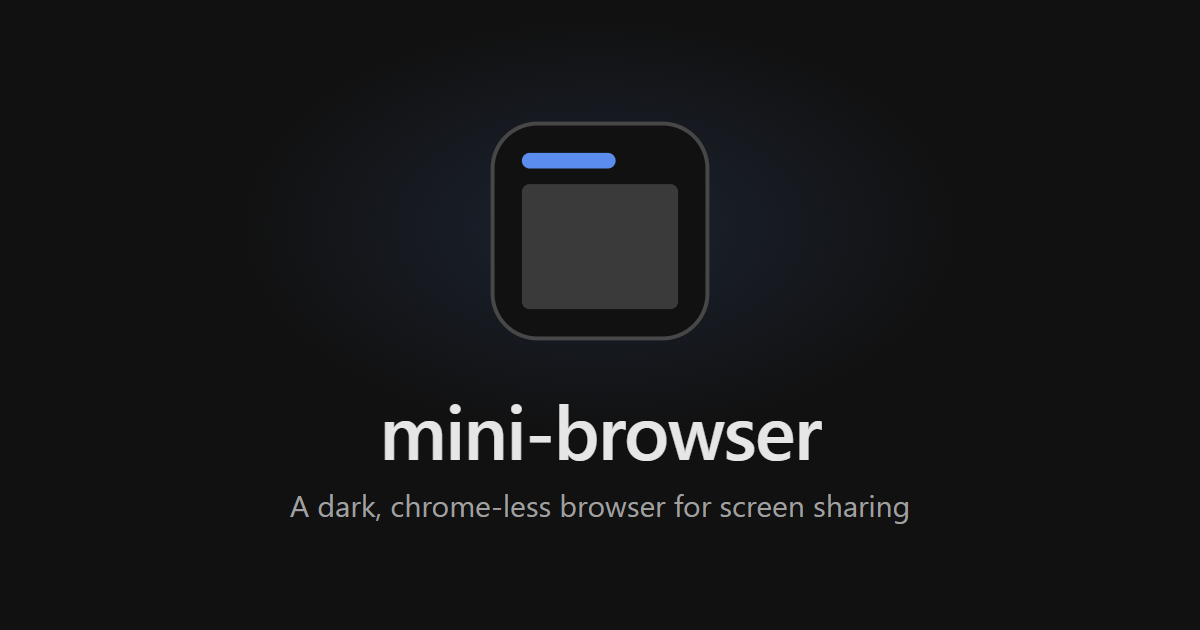
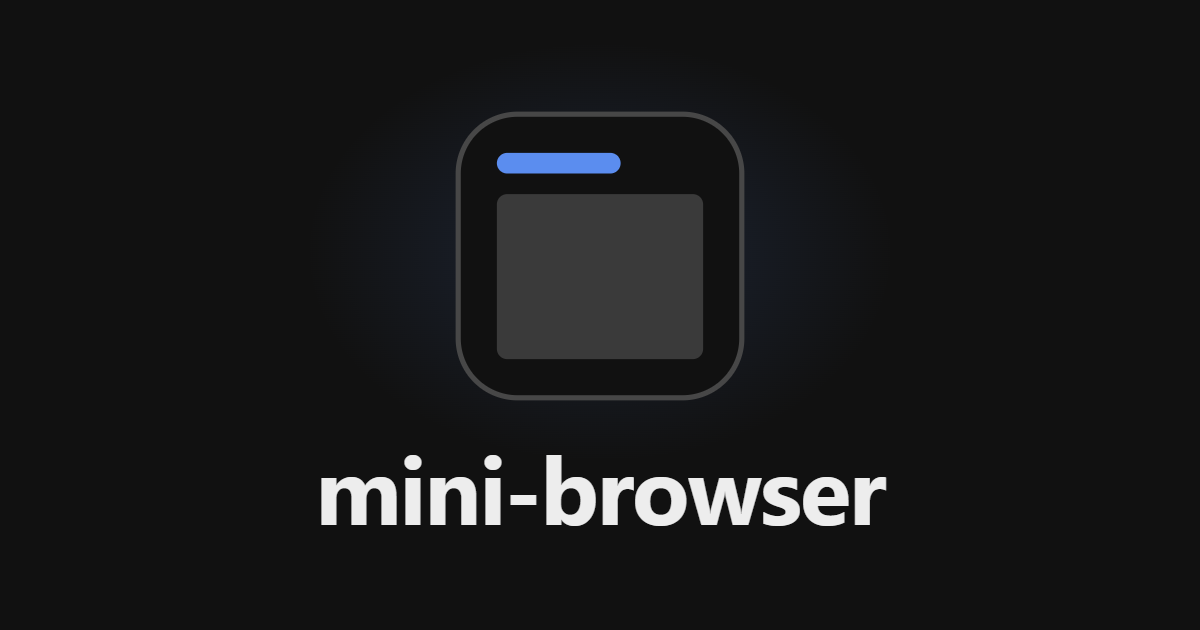
fix(site): make the share thumbnail readable
WhatsApp crops the centered square of og:image for its thumbnail, which cut the tagline mid-word. The image now shows only the larger icon and name inside that square, and og:image gets ?v=2 so cached previews refresh.

Changed region(s): [[0.2467, 0.573, 0.7708, 0.8444], [0.37, 0.1508, 0.6475, 0.6032]]

diff --git a/site/index.html b/site/index.html
@@ -12,11 +12,11 @@
 <meta property="og:description" content="A dark, chrome-less browser for screen sharing. Free and open source for Windows, macOS and Linux.">
 <meta property="og:url" content="https://montesgp.github.io/mini-browser/">
 <meta property="og:site_name" content="mini-browser">
-<meta property="og:image" content="https://montesgp.github.io/mini-browser/og-image.png">
+<meta property="og:image" content="https://montesgp.github.io/mini-browser/og-image.png?v=2">
 <meta property="og:image:type" content="image/png">
 <meta property="og:image:width" content="1200">
 <meta property="og:image:height" content="630">
-<meta property="og:image:alt" content="The mini-browser icon above its name and tagline: A dark, chrome-less browser for screen sharing">
+<meta property="og:image:alt" content="The mini-browser icon above its name">
 <meta name="twitter:card" content="summary_large_image">
 <link rel="icon" href="icon.svg" type="image/svg+xml">
 <link rel="stylesheet" href="style.css">

diff --git a/README.md b/README.md
@@ -283,7 +283,7 @@ To cut a release:
 
 ## Download page
 
-`site/` is the static page at <https://montesgp.github.io/mini-browser/>: plain HTML, CSS and JavaScript with no dependencies or remote fonts, so it also opens from `file://`. [`pages.yml`](.github/workflows/pages.yml) deploys it to GitHub Pages on every push to `main` that touches `site/**` (or by hand with `workflow_dispatch`), so site changes made on `dev` go live when `dev` is promoted to `main`. The page never names a version: its buttons link the versionless assets that `release.yml` adds to each release (`releases/latest/download/mini-browser-windows-x64.zip`, `…-macos-arm64.zip`, `…-linux-x64.tar.gz`, copies of the versioned archives, listed in `SHA256SUMS.txt` and attested), and at load it reads `/repos/montesgp/mini-browser/releases/latest` from the GitHub API to show the latest tag, its date and link; if that request fails, only the version is missing. `site/demo/index.html` is the animated tour, with the Vercel and Google screenshots next to it. `site/404.html` is the page GitHub Pages shows for any missing path, in the same style; it is served at any depth, so its links start at `/mini-browser/`. `site/og-image.png` (1200×630) is the preview that chats and social networks show when the link is shared, referenced by the `og:image` tags in `index.html`; regenerate it when the icon or the tagline changes.
+`site/` is the static page at <https://montesgp.github.io/mini-browser/>: plain HTML, CSS and JavaScript with no dependencies or remote fonts, so it also opens from `file://`. [`pages.yml`](.github/workflows/pages.yml) deploys it to GitHub Pages on every push to `main` that touches `site/**` (or by hand with `workflow_dispatch`), so site changes made on `dev` go live when `dev` is promoted to `main`. The page never names a version: its buttons link the versionless assets that `release.yml` adds to each release (`releases/latest/download/mini-browser-windows-x64.zip`, `…-macos-arm64.zip`, `…-linux-x64.tar.gz`, copies of the versioned archives, listed in `SHA256SUMS.txt` and attested), and at load it reads `/repos/montesgp/mini-browser/releases/latest` from the GitHub API to show the latest tag, its date and link; if that request fails, only the version is missing. `site/demo/index.html` is the animated tour, with the Vercel and Google screenshots next to it. `site/404.html` is the page GitHub Pages shows for any missing path, in the same style; it is served at any depth, so its links start at `/mini-browser/`. `site/og-image.png` (1200×630) is the preview that chats and social networks show when the link is shared (the icon and the name, kept inside the centered 630×630 square that WhatsApp crops for its thumbnail), referenced by the `og:image` tags in `index.html`; when you regenerate it, bump the `?v=` in `og:image` so apps that cached the old one fetch it again.
 
 ## Contribution workflow
 
